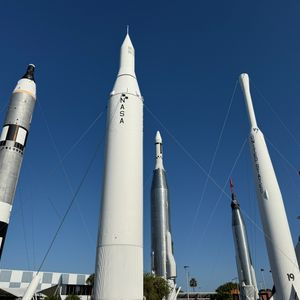
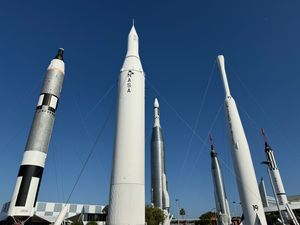
Fix aspect ratio preservation in gallery thumbnails
- Changed thumbnail processing from fit:'cover' to fit:'inside'
- Thumbnails now preserve original aspect ratios instead of being forced to squares
- Updated album.ts generation to use thumbnail dimensions for masonry layout
- Gallery grid now displays custom crops correctly without stretching
- Images show proper aspect ratios: 4:3, 3:4, and custom cropped ratios
- Booster, capsule, and other cropped images no longer appear distorted
- Regenerated all Kennedy Space Center thumbnails with preserved ratios

🤖 Generated with [Claude Code](https://claude.ai/code)

diff --git a/docusaurus/docs/gallery/2025/kennedy-space-center/album.ts b/docusaurus/docs/gallery/2025/kennedy-space-center/album.ts
@@ -1,176 +1,176 @@
 export const kennedySpaceCenterPhotos = [
   {
     src: require('./img/web/01_rocket_garden.jpg').default,
-    width: 1200,
-    height: 900,
+    width: 300,
+    height: 225,
     alt: 'kennedy-space-center',
     caption: "rocket garden",
     thumb: require('./img/thumbs/thumb_01_rocket_garden.jpg').default,
   },
   {
     src: require('./img/web/02_atlantis_front.jpg').default,
-    width: 1200,
-    height: 900,
+    width: 300,
+    height: 225,
     alt: 'kennedy-space-center',
     caption: "atlantis front",
     thumb: require('./img/thumbs/thumb_02_atlantis_front.jpg').default,
   },
   {
     src: require('./img/web/03_atlantis_side.jpg').default,
-    width: 1200,
-    height: 900,
+    width: 300,
+    height: 225,
     alt: 'kennedy-space-center',
     caption: "atlantis side",
     thumb: require('./img/thumbs/thumb_03_atlantis_side.jpg').default,
   },
   {
     src: require('./img/web/04_atlantis_engine.jpg').default,
-    width: 1200,
-    height: 900,
+    width: 300,
+    height: 225,
     alt: 'kennedy-space-center',
     caption: "atlantis engine",
     thumb: require('./img/thumbs/thumb_04_atlantis_engine.jpg').default,
   },
   {
     src: require('./img/web/05_atlantis_back.jpg').default,
-    width: 900,
-    height: 1200,
+    width: 225,
+    height: 300,
     alt: 'kennedy-space-center',
     caption: "atlantis back",
     thumb: require('./img/thumbs/thumb_05_atlantis_back.jpg').default,
   },
   {
     src: require('./img/web/06_control_room.jpg').default,
-    width: 652,
-    height: 1200,
+    width: 163,
+    height: 300,
     alt: 'kennedy-space-center',
     caption: "control room",
     thumb: require('./img/thumbs/thumb_06_control_room.jpg').default,
   },
   {
     src: require('./img/web/07_wings.jpg').default,
-    width: 900,
-    height: 1200,
+    width: 225,
+    height: 300,
     alt: 'kennedy-space-center',
     caption: "wings",
     thumb: require('./img/thumbs/thumb_07_wings.jpg').default,
   },
   {
     src: require('./img/web/08_atlantis_close.jpg').default,
-    width: 900,
-    height: 1200,
+    width: 225,
+    height: 300,
     alt: 'kennedy-space-center',
     caption: "atlantis close",
     thumb: require('./img/thumbs/thumb_08_atlantis_close.jpg').default,
   },
   {
     src: require('./img/web/09_atlantis_inisde.jpg').default,
-    width: 1200,
-    height: 900,
+    width: 300,
+    height: 225,
     alt: 'kennedy-space-center',
     caption: "atlantis inisde",
     thumb: require('./img/thumbs/thumb_09_atlantis_inisde.jpg').default,
   },
   {
     src: require('./img/web/10_space_shuttle.jpg').default,
-    width: 900,
-    height: 1200,
+    width: 225,
+    height: 300,
     alt: 'kennedy-space-center',
     caption: "space shuttle",
     thumb: require('./img/thumbs/thumb_10_space_shuttle.jpg').default,
   },
   {
     src: require('./img/web/11_lawn.jpg').default,
-    width: 1200,
-    height: 900,
+    width: 300,
+    height: 225,
     alt: 'kennedy-space-center',
     caption: "lawn",
     thumb: require('./img/thumbs/thumb_11_lawn.jpg').default,
   },
   {
     src: require('./img/web/12_mission_control.jpg').default,
-    width: 1200,
-    height: 812,
+    width: 300,
+    height: 203,
     alt: 'kennedy-space-center',
     caption: "mission control",
     thumb: require('./img/thumbs/thumb_12_mission_control.jpg').default,
   },
   {
     src: require('./img/web/12_thrusters.jpg').default,
-    width: 1011,
-    height: 1200,
+    width: 253,
+    height: 300,
     alt: 'kennedy-space-center',
     caption: "thrusters",
     thumb: require('./img/thumbs/thumb_12_thrusters.jpg').default,
   },
   {
     src: require('./img/web/13_thrusters_below.jpg').default,
-    width: 1200,
-    height: 900,
+    width: 300,
+    height: 225,
     alt: 'kennedy-space-center',
     caption: "thrusters below",
     thumb: require('./img/thumbs/thumb_13_thrusters_below.jpg').default,
   },
   {
     src: require('./img/web/14_cables.jpg').default,
-    width: 1200,
-    height: 900,
+    width: 300,
+    height: 225,
     alt: 'kennedy-space-center',
     caption: "cables",
     thumb: require('./img/thumbs/thumb_14_cables.jpg').default,
   },
   {
     src: require('./img/web/15_booster.jpg').default,
-    width: 900,
-    height: 1200,
+    width: 225,
+    height: 300,
     alt: 'kennedy-space-center',
     caption: "booster",
     thumb: require('./img/thumbs/thumb_15_booster.jpg').default,
   },
   {
     src: require('./img/web/16_capsule.jpg').default,
-    width: 900,
-    height: 1200,
+    width: 225,
+    height: 300,
     alt: 'kennedy-space-center',
     caption: "capsule",
     thumb: require('./img/thumbs/thumb_16_capsule.jpg').default,
   },
   {
     src: require('./img/web/17_launchpad_39.jpg').default,
-    width: 1200,
-    height: 900,
+    width: 300,
+    height: 225,
     alt: 'kennedy-space-center',
     caption: "launchpad 39",
     thumb: require('./img/thumbs/thumb_17_launchpad_39.jpg').default,
   },
   {
     src: require('./img/web/18_gantry.jpg').default,
-    width: 927,
-    height: 1200,
+    width: 232,
+    height: 300,
     alt: 'kennedy-space-center',
     caption: "gantry",
     thumb: require('./img/thumbs/thumb_18_gantry.jpg').default,
   },
   {
     src: require('./img/web/19_dream_chaser.jpg').default,
-    width: 900,
-    height: 1200,
+    width: 225,
+    height: 300,
     alt: 'kennedy-space-center',
     caption: "dream chaser",
     thumb: require('./img/thumbs/thumb_19_dream_chaser.jpg').default,
   },
   {
     src: require('./img/web/20_dream_chaser_back.jpg').default,
-    width: 900,
-    height: 1200,
+    width: 225,
+    height: 300,
     alt: 'kennedy-space-center',
     caption: "dream chaser back",
     thumb: require('./img/thumbs/thumb_20_dream_chaser_back.jpg').default,
   },
   {
     src: require('./img/web/21_dream_chaser_wing.jpg').default,
-    width: 1200,
-    height: 900,
+    width: 300,
+    height: 225,
     alt: 'kennedy-space-center',
     caption: "dream chaser wing",
     thumb: require('./img/thumbs/thumb_21_dream_chaser_wing.jpg').default,

diff --git a/scripts/gallery-processor.js b/scripts/gallery-processor.js
@@ -205,8 +205,8 @@ class GalleryProcessor {
     await sharp(inputPath)
       .rotate() // Auto-rotate based on EXIF orientation
       .resize(this.options.thumbSize, this.options.thumbSize, {
-        fit: 'cover',
-        position: 'center'
+        fit: 'inside',
+        withoutEnlargement: true
       })
       .jpeg({ quality: this.options.thumbQuality })
       .toFile(outputPath);
@@ -369,12 +369,12 @@ class GalleryProcessor {
         // Extract caption from filename (remove number prefix)
         const caption = nameWithoutExt.replace(/^\d+_/, '').replace(/_/g, ' ');
 
-        // Get actual dimensions from the web image
+        // Get actual dimensions from the thumbnail image (used for grid display)
         await this.ensureSharp();
-        const webImagePath = path.join(webDir, webFile);
-        const metadata = await sharp(webImagePath).metadata();
-        const width = metadata.width || 900;
-        const height = metadata.height || 1200;
+        const thumbImagePath = path.join(thumbsDir, thumbFile);
+        const metadata = await sharp(thumbImagePath).metadata();
+        const width = metadata.width || 300;
+        const height = metadata.height || 300;
 
         albumContent += `  {\n`;
         albumContent += `    src: require('./img/web/${webFile}').default,\n`;
